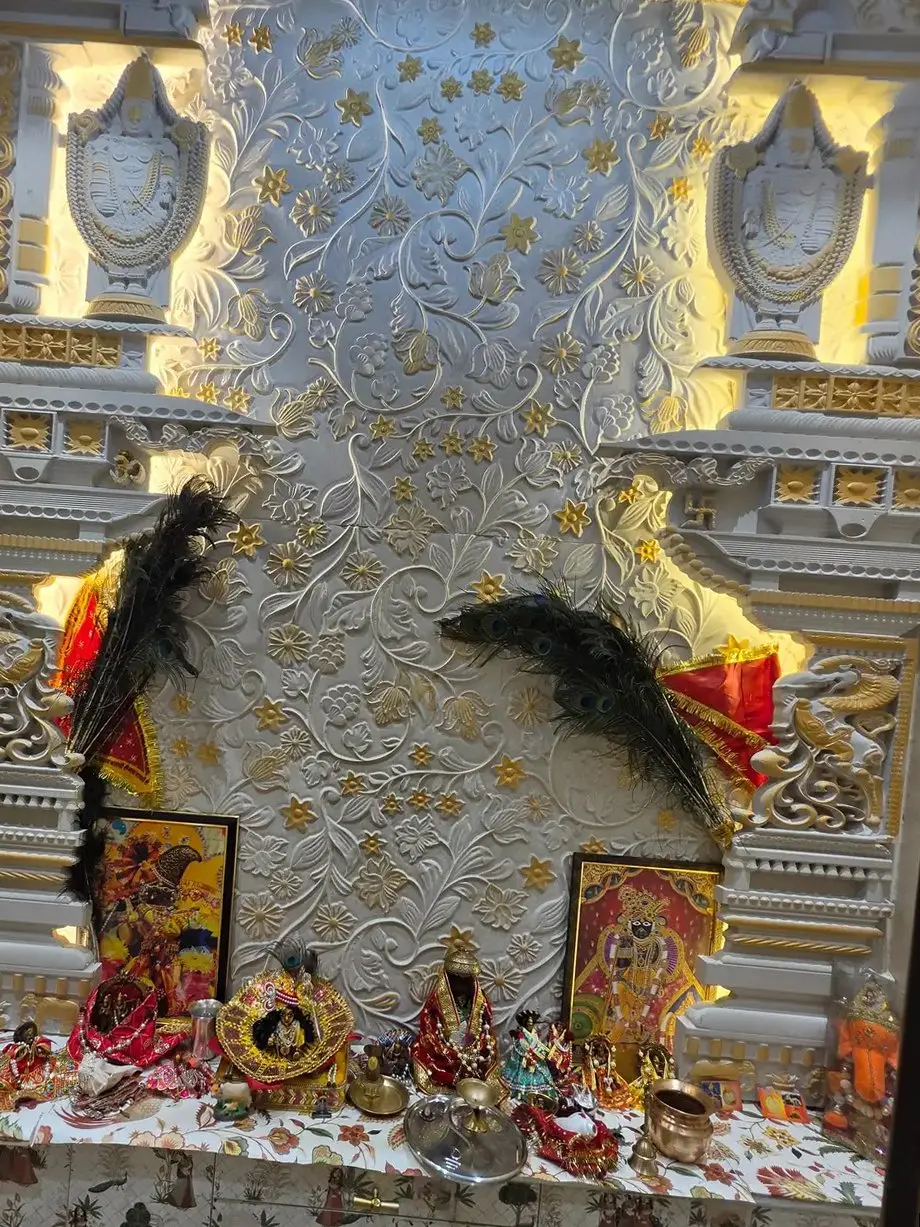
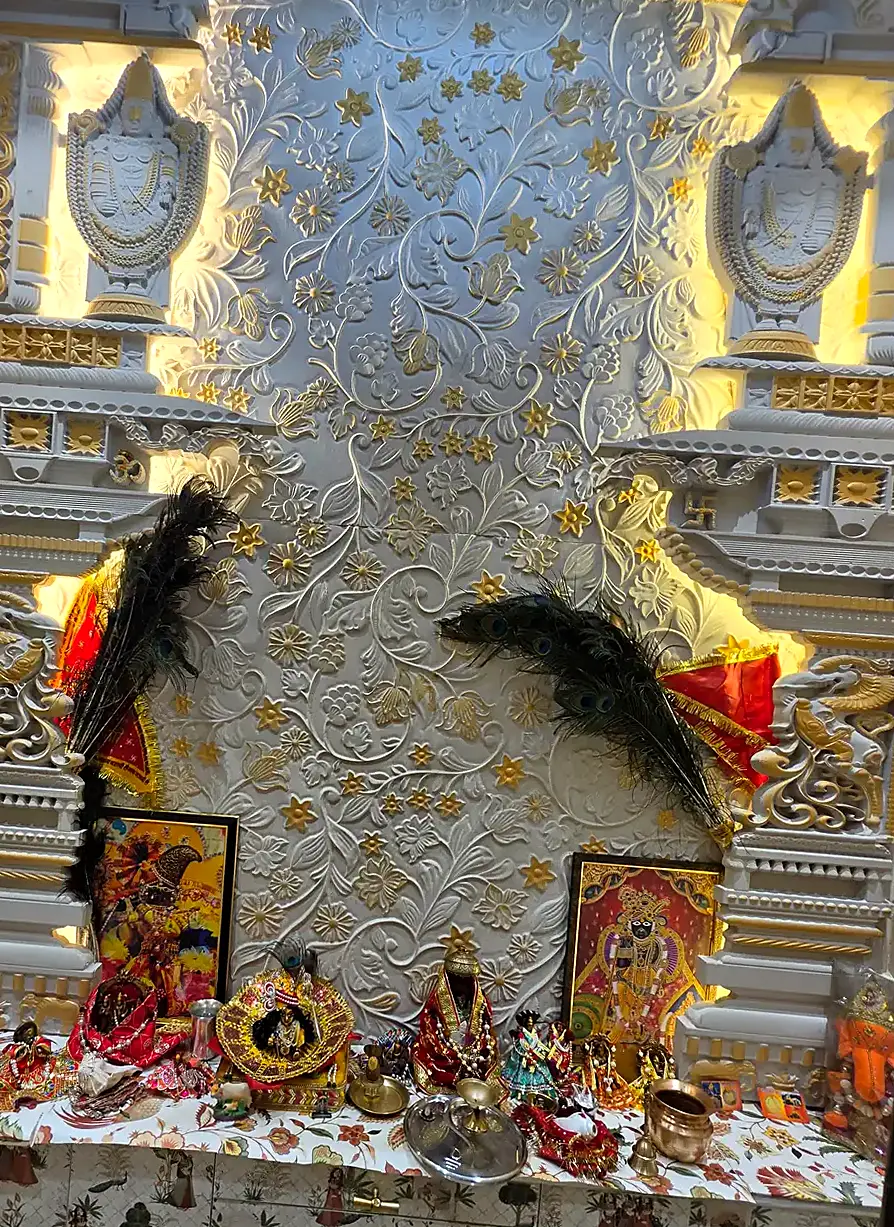
Pooja photo: full altar in frame, dark edge removed, gentle colour and sharpness lift; taller service cards
Claude-Session: https://claude.ai/code/session_01XeP6M3y49BHTFyYWRmVo6J

diff --git a/index.html b/index.html
@@ -251,7 +251,7 @@ h1,h2,h3,h4,p{margin:0}
 .sgrid{display:grid;grid-template-columns:repeat(4,1fr);gap:clamp(14px,1.6vw,24px)}
 .card{background:var(--beige);border-radius:calc(var(--r) + 4px);overflow:hidden;display:flex;flex-direction:column;border:1.5px solid transparent;transition:border-color .5s,transform .6s var(--e),box-shadow .6s var(--e)}
 .card:hover{border-color:var(--line-2);transform:translateY(-6px);box-shadow:0 22px 50px rgba(22,33,63,.10)}
-.card .im{aspect-ratio:4/4.4;overflow:hidden}
+.card .im{aspect-ratio:4/5;overflow:hidden}
 .card .im img{width:100%;height:100%;object-fit:cover;object-position:50% 40%;transition:transform 1.2s var(--e)}
 .card:hover .im img{transform:scale(1.05)}
 .card .bd{padding:22px 22px 24px;display:flex;flex-direction:column;flex:1}
@@ -615,7 +615,7 @@ footer{padding-top:60px;overflow:hidden}
     <div class="sgrid">
       <article class="card rv"><div class="im"><img src="/img/dome.webp" alt="Living room with carved dome ceiling" loading="lazy" decoding="async"></div><div class="bd"><span class="n">01</span><h3>Turnkey construction</h3><p>Our core: plans, elevations and construction, from plot to possession.</p><ul><li>Architecture &amp; facades</li><li>Site execution &amp; supervision</li><li>Bespoke furniture</li></ul><a class="go" href="#contact" data-type="New home construction">Enquire <svg viewBox="0 0 22 10" fill="none" stroke="currentColor" stroke-width="1.5"><path d="M1 5h20M17 1l4 4-4 4"/></svg></a></div></article>
       <article class="card rv d1"><div class="im"><img src="/img/kitchen.webp" alt="Sage and oak kitchen" loading="lazy" decoding="async"></div><div class="bd"><span class="n">02</span><h3>Turnkey interiors</h3><p>Complete home interiors, from consultancy to turnkey.</p><ul><li>Living rooms &amp; bedrooms</li><li>Modular kitchens</li><li>Lighting &amp; false ceilings</li><li>Materials, finishes &amp; styling</li></ul><a class="go" href="#contact" data-type="Complete interiors">Enquire <svg viewBox="0 0 22 10" fill="none" stroke="currentColor" stroke-width="1.5"><path d="M1 5h20M17 1l4 4-4 4"/></svg></a></div></article>
-      <article class="card rv d2"><div class="im"><img src="/img/pooja.webp" alt="Carved pooja room" loading="lazy" decoding="async"></div><div class="bd"><span class="n">03</span><h3>Pooja rooms</h3><p>Temple-inspired mandirs, carved and lit to be lived with daily.</p><ul><li>Carved panels &amp; niches</li><li>Backlit relief work</li><li>Storage &amp; brass detailing</li></ul><a class="go" href="#contact" data-type="Pooja room">Enquire <svg viewBox="0 0 22 10" fill="none" stroke="currentColor" stroke-width="1.5"><path d="M1 5h20M17 1l4 4-4 4"/></svg></a></div></article>
+      <article class="card rv d2"><div class="im"><img src="/img/pooja-card.webp" alt="Carved pooja room" loading="lazy" decoding="async"></div><div class="bd"><span class="n">03</span><h3>Pooja rooms</h3><p>Temple-inspired mandirs, carved and lit to be lived with daily.</p><ul><li>Carved panels &amp; niches</li><li>Backlit relief work</li><li>Storage &amp; brass detailing</li></ul><a class="go" href="#contact" data-type="Pooja room">Enquire <svg viewBox="0 0 22 10" fill="none" stroke="currentColor" stroke-width="1.5"><path d="M1 5h20M17 1l4 4-4 4"/></svg></a></div></article>
       <article class="card rv d3"><div class="im"><img src="/img/peacock.webp" alt="Backlit peacock relief wall" loading="lazy" decoding="async"></div><div class="bd"><span class="n">04</span><h3>Feature walls</h3><p>Handcrafted statement walls that give a home its signature.</p><ul><li>Mirror mosaic &amp; inlay</li><li>Carved &amp; backlit relief</li><li>Mouldings &amp; textures</li></ul><a class="go" href="#contact" data-type="Feature wall">Enquire <svg viewBox="0 0 22 10" fill="none" stroke="currentColor" stroke-width="1.5"><path d="M1 5h20M17 1l4 4-4 4"/></svg></a></div></article>
     </div>
   </div>
@@ -641,7 +641,7 @@ footer{padding-top:60px;overflow:hidden}
       <figure class="gi" data-c="walls" tabindex="0"><img id="g-mosaic" src="/img/mosaic.webp" alt="Mirror mosaic feature wall with elephants, lotus and peacock motifs" width="1125" height="1500" loading="lazy" decoding="async"><span class="zoom"><svg viewBox="0 0 24 24" fill="none" stroke="currentColor" stroke-width="2"><path d="M15 3h6v6M9 21H3v-6M21 3l-7 7M3 21l7-7"/></svg></span><figcaption><b>Mirror mosaic wall</b><span>Feature wall</span></figcaption></figure>
       <figure class="gi" data-c="kitchen" tabindex="0"><img id="g-kitchen" src="/img/kitchen.webp" alt="Sage green kitchen with oak cabinets framed by a backlit curve" width="1125" height="1500" loading="lazy" decoding="async"><span class="zoom"><svg viewBox="0 0 24 24" fill="none" stroke="currentColor" stroke-width="2"><path d="M15 3h6v6M9 21H3v-6M21 3l-7 7M3 21l7-7"/></svg></span><figcaption><b>Sage &amp; oak kitchen</b><span>Kitchen</span></figcaption></figure>
       <figure class="gi" data-c="foyer" tabindex="0"><img id="g-foyer" src="/img/foyer.webp" alt="Foyer with walnut coffered ceiling and blossom chandelier" width="1125" height="1500" loading="lazy" decoding="async"><span class="zoom"><svg viewBox="0 0 24 24" fill="none" stroke="currentColor" stroke-width="2"><path d="M15 3h6v6M9 21H3v-6M21 3l-7 7M3 21l7-7"/></svg></span><figcaption><b>The entrance foyer</b><span>Foyer</span></figcaption></figure>
-      <figure class="gi" data-c="pooja" tabindex="0"><img id="g-pooja" src="/img/pooja.webp" alt="Pooja room with carved temple wall and backlit niches" width="920" height="1227" loading="lazy" decoding="async"><span class="zoom"><svg viewBox="0 0 24 24" fill="none" stroke="currentColor" stroke-width="2"><path d="M15 3h6v6M9 21H3v-6M21 3l-7 7M3 21l7-7"/></svg></span><figcaption><b>Carved temple wall</b><span>Pooja room</span></figcaption></figure>
+      <figure class="gi" data-c="pooja" tabindex="0"><img id="g-pooja" src="/img/pooja.webp" alt="Pooja room with carved temple wall and backlit niches" width="894" height="1227" loading="lazy" decoding="async"><span class="zoom"><svg viewBox="0 0 24 24" fill="none" stroke="currentColor" stroke-width="2"><path d="M15 3h6v6M9 21H3v-6M21 3l-7 7M3 21l7-7"/></svg></span><figcaption><b>Carved temple wall</b><span>Pooja room</span></figcaption></figure>
       <figure class="gi" data-c="living" tabindex="0"><img id="g-lounge" src="/img/lounge.webp" alt="Lounge with striped wall, geometric frieze and sculpted relief art" width="1125" height="1500" loading="lazy" decoding="async"><span class="zoom"><svg viewBox="0 0 24 24" fill="none" stroke="currentColor" stroke-width="2"><path d="M15 3h6v6M9 21H3v-6M21 3l-7 7M3 21l7-7"/></svg></span><figcaption><b>Family lounge</b><span>Living</span></figcaption></figure>
       <figure class="gi" data-c="bedroom" tabindex="0"><img id="g-bed" src="/img/bed.webp" alt="Bedroom with floral wallpaper, timber jaali panel and stepped ceiling" width="1125" height="1500" loading="lazy" decoding="async"><span class="zoom"><svg viewBox="0 0 24 24" fill="none" stroke="currentColor" stroke-width="2"><path d="M15 3h6v6M9 21H3v-6M21 3l-7 7M3 21l7-7"/></svg></span><figcaption><b>Master bedroom</b><span>Bedroom</span></figcaption></figure>
       <figure class="gi" data-c="walls" tabindex="0"><img id="g-peacock" src="/img/peacock.webp" alt="Backlit peacock and maple leaf relief wall" width="990" height="1070" loading="lazy" decoding="async"><span class="zoom"><svg viewBox="0 0 24 24" fill="none" stroke="currentColor" stroke-width="2"><path d="M15 3h6v6M9 21H3v-6M21 3l-7 7M3 21l7-7"/></svg></span><figcaption><b>Peacock relief wall</b><span>Feature wall</span></figcaption></figure>
